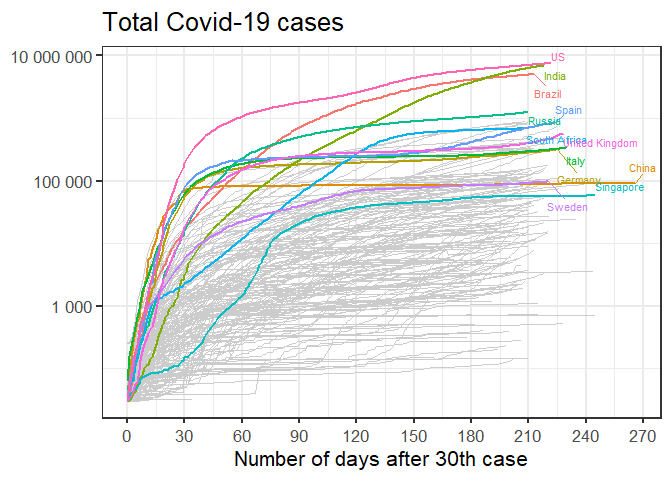
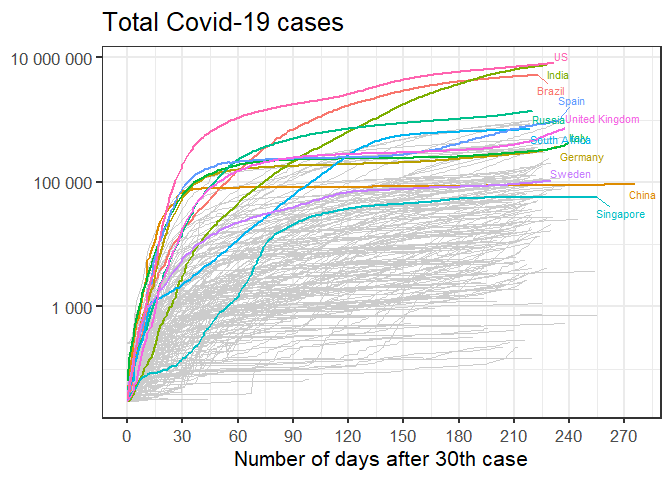
Refresh

diff --git a/README.md b/README.md
@@ -20,7 +20,7 @@ The data source is [a repository maintained by Johns Hopkins
 University](https://github.com/CSSEGISandData/COVID-19). The data is
 updated once per day.
 
-Last updated at 2020-10-10 06:34:22
+Last updated at 2020-10-20 14:46:07
 
 Total cases
 -----------
@@ -29,16 +29,16 @@ Total cases
     #> # Groups:   country [1]
     #>    country      date         lat  long  cases
     #>    <chr>        <date>     <dbl> <dbl>  <dbl>
-    #>  1 South Africa 2020-09-30 -30.6  22.9 674339
-    #>  2 South Africa 2020-10-01 -30.6  22.9 676084
-    #>  3 South Africa 2020-10-02 -30.6  22.9 677833
-    #>  4 South Africa 2020-10-03 -30.6  22.9 679716
-    #>  5 South Africa 2020-10-04 -30.6  22.9 681289
-    #>  6 South Africa 2020-10-05 -30.6  22.9 682215
-    #>  7 South Africa 2020-10-06 -30.6  22.9 683242
-    #>  8 South Africa 2020-10-07 -30.6  22.9 685155
-    #>  9 South Africa 2020-10-08 -30.6  22.9 686891
-    #> 10 South Africa 2020-10-09 -30.6  22.9 688352
+    #>  1 South Africa 2020-10-10 -30.6  22.9 690896
+    #>  2 South Africa 2020-10-11 -30.6  22.9 692471
+    #>  3 South Africa 2020-10-12 -30.6  22.9 693359
+    #>  4 South Africa 2020-10-13 -30.6  22.9 694537
+    #>  5 South Africa 2020-10-14 -30.6  22.9 696414
+    #>  6 South Africa 2020-10-15 -30.6  22.9 698184
+    #>  7 South Africa 2020-10-16 -30.6  22.9 700203
+    #>  8 South Africa 2020-10-17 -30.6  22.9 702131
+    #>  9 South Africa 2020-10-18 -30.6  22.9 703793
+    #> 10 South Africa 2020-10-19 -30.6  22.9 705254
 
 ### Linear scale
 
@@ -75,16 +75,16 @@ Total number of deaths
     #> # Groups:   country [1]
     #>    country      date       deaths
     #>    <chr>        <date>      <dbl>
-    #>  1 South Africa 2020-09-30  16734
-    #>  2 South Africa 2020-10-01  16866
-    #>  3 South Africa 2020-10-02  16909
-    #>  4 South Africa 2020-10-03  16938
-    #>  5 South Africa 2020-10-04  16976
-    #>  6 South Africa 2020-10-05  17016
-    #>  7 South Africa 2020-10-06  17103
-    #>  8 South Africa 2020-10-07  17248
-    #>  9 South Africa 2020-10-08  17408
-    #> 10 South Africa 2020-10-09  17547
+    #>  1 South Africa 2020-10-10  17673
+    #>  2 South Africa 2020-10-11  17780
+    #>  3 South Africa 2020-10-12  17863
+    #>  4 South Africa 2020-10-13  18028
+    #>  5 South Africa 2020-10-14  18151
+    #>  6 South Africa 2020-10-15  18309
+    #>  7 South Africa 2020-10-16  18370
+    #>  8 South Africa 2020-10-17  18408
+    #>  9 South Africa 2020-10-18  18471
+    #> 10 South Africa 2020-10-19  18492
 
 ### Linear scale
 
